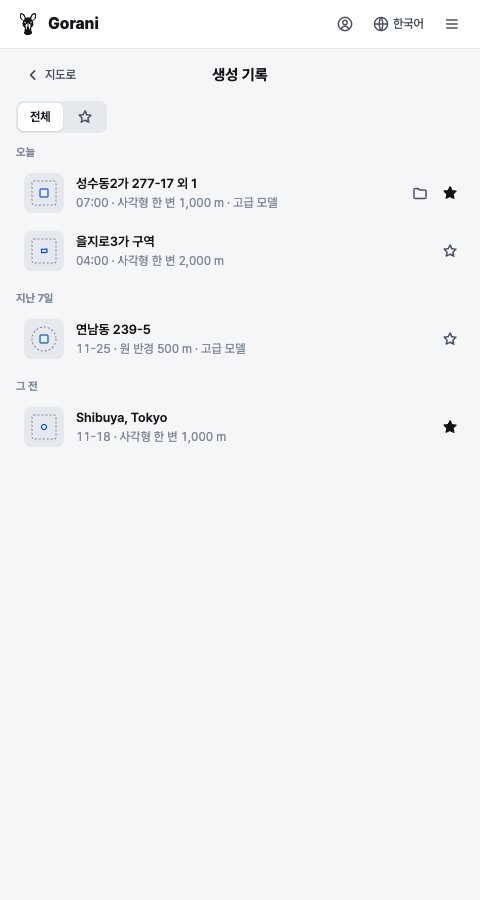
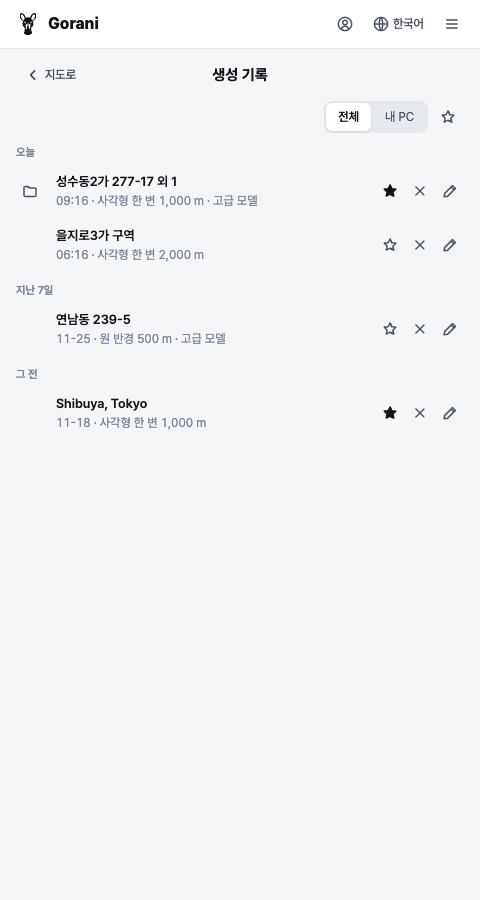
생성 기록: 대상지 썸네일 없애고 왼쪽에 폴더(이 PC 결과만), 오른쪽 별·X·연필, 필터 오른쪽 [전체 | 내 PC] + 따로 켜는 ★ · 지도 트레이는 최근 결과 꼴에 X만

diff --git a/scripts/site_ui.html b/scripts/site_ui.html
@@ -203,21 +203,19 @@ body[data-screen="history"] section[data-screen="history"] { display: block; ove
 .hist-head h2 { margin: 0; font-size: 15px; line-height: 22px; font-weight: 700; }
 .hist-group { margin-top: 12px; }
 .hist-group > .tray-h { display: flex; align-items: center; gap: 8px; margin: 4px 0; font-size: 11px; line-height: 16px; font-weight: 600; color: var(--ink-3); }
-.hist-row { display: grid; grid-template-columns: minmax(0, 1fr) auto; align-items: center; gap: 4px; }
+.hist-row { display: grid; grid-template-columns: 28px minmax(0, 1fr) auto; align-items: center; gap: 4px; }   /* 폴더 · 이름 · 별·X·연필 */
+.hist-row .gap { width: 28px; height: 28px; }   /* 폴더 없는 줄 — 이름이 같은 줄에 서게 */
 .hist-acts { display: flex; align-items: center; gap: 2px; }
-.hist-acts .hov { visibility: hidden; }   /* 이름 바꾸기·지우기 — 마우스를 올렸거나 포커스일 때만(gorani.site/account와 같게) */
-.hist-row:hover .hov, .hist-row:focus-within .hov { visibility: visible; }
-.hist-acts .gap { width: 28px; height: 28px; }   /* 폴더 없는 줄 — 별이 같은 자리에 오게 */
-.hist-open { display: grid; grid-template-columns: 40px minmax(0, 1fr); align-items: center; gap: 12px; width: 100%; min-height: 56px; padding: 6px 8px; border: 0; border-radius: 8px; background: none; text-align: left; color: var(--ink); }
+.hist-filters { display: flex; justify-content: flex-end; align-items: center; gap: 4px; }   /* [전체 | 내 PC] + ★ — 오른쪽 */
+.hist-star-filter[aria-pressed="true"] { color: var(--ink); background: var(--press); }
+.hist-star-filter[aria-pressed="true"] .ico { fill: currentColor; }
+.hist-open { display: block; width: 100%; min-height: 52px; padding: 6px 8px; border: 0; border-radius: 8px; background: none; text-align: left; color: var(--ink); }
 .hist-open:hover:not(:disabled) { background: var(--hover); }
 .hist-open .txt { display: grid; min-width: 0; }
 .hist-open .name, .hist-open .sub { overflow: hidden; text-overflow: ellipsis; white-space: nowrap; }
 .hist-open .name { font-weight: 600; line-height: 20px; }
 .hist-open .sub { color: var(--ink-3); font-size: 12px; line-height: 18px; }
 .hist-name { width: 100%; height: 28px; }
-.hist-thumb { width: 40px; height: 40px; padding: 4px; border-radius: 8px; background: var(--press); fill: none; stroke: var(--ink-3); stroke-width: 1; }
-.hist-thumb .rg { stroke-dasharray: 2 2; }
-.hist-thumb .t { fill: var(--accent-wash); stroke: var(--accent-ink); stroke-width: 1.2; }
 .hist-star[aria-pressed="true"] { color: var(--ink); }
 .hist-star[aria-pressed="true"] .ico { fill: currentColor; }
 #hist_menu { position: fixed; z-index: 1150; min-width: 160px; background: var(--surface); border: 1px solid var(--line); border-radius: 10px; box-shadow: 0 8px 24px rgba(0, 0, 0, .14); padding: 4px; }
@@ -2765,7 +2763,7 @@ Object.assign(ACTIONS, {
 // 누르면 이 PC에 폴더가 있으면 결과 화면, 없으면 같은 대상지·설정으로 지도에 되살린다(restoreResultTarget). 단추 묶음 [전체 | ★], 날짜 묶음, 줄마다 별.
 // 이름 바꾸기·기록에서 빼기는 오른쪽 클릭 메뉴(화면에 단추를 늘리지 않는다). 결과 폴더는 지우지 않는다. 받기는 Python 스레드 — history_poll로 묻는다
 HIST = {
-  items: null, ok: true, star: false, back: "map", poll: null, editing: "", at: 0,   // at = 받은 시각(트레이 위 3개가 30초 안이면 다시 묻지 않는다)
+  items: null, ok: true, star: false, scope: "all", back: "map",   // scope = all | pc(이 PC에 결과 폴더가 있는 기록), star = 즐겨찾기만(범위와 따로) poll: null, editing: "", at: 0,   // at = 받은 시각(트레이 위 3개가 30초 안이면 다시 묻지 않는다)
   can: function () { return !!ACCT && ACCT.member() && (ACCT.st().features || []).indexOf("history_sync") >= 0; },
   open: function () {
     if (!this.can() || state.run === "running") return;
@@ -2796,18 +2794,26 @@ HIST = {
     var items = (this.items || []).slice(0, 3), now = new Date(), today = new Date(now.getFullYear(), now.getMonth(), now.getDate()).getTime(), self = this;
     if (this.items && !items.length) return null;
     var head = '<div class="tray-h">' + ico("clock") + tr("생성 기록") + '<button type="button" class="hist-link" data-act="hist_open">' + tr("전체 기록") + ico("next") + "</button></div>";
-    return head + (this.items === null ? '<div class="hint">' + tr("불러오는 중") + "</div>" : '<div class="mlist">' + items.map(function (it) { return self.rowHtml(it, today); }).join("") + "</div>");
+    return head + (this.items === null ? '<div class="hint">' + tr("불러오는 중") + "</div>" : '<div class="mlist">' + items.map(function (it) { return self.trayRowHtml(it); }).join("") + "</div>");
+  },
+  trayRowHtml: function (it) {   // 지도 트레이 한 줄 — 최근 결과 줄(recentHtml)과 같은 꼴: 방식 아이콘·이름·만든 시각, 오른쪽 X만. 누르면 지도에 다시 고른다
+    var t = new Date(+it.built_at || 0), two = function (n) { return (n < 10 ? "0" : "") + n; }, id = esc(it.id), name = it.label || "–";
+    var when = two(t.getMonth() + 1) + "-" + two(t.getDate()) + " " + two(t.getHours()) + ":" + two(t.getMinutes()), dis = state.run === "running" ? " disabled" : "";
+    return '<div class="recent-row"><button type="button" class="recent" data-act="hist_pick" data-id="' + id + '"' + dis + ">" + ico(MODE_SHORT[it.mode] ? it.mode : "lots") + "<span>" + esc(name) + '</span><span class="sub num">' + esc(when) + "</span></button>" +
+      '<button type="button" class="ib sm" data-act="hist_remove" data-id="' + id + '"' + dis + ' aria-label="' + esc(tr("기록에서 빼기") + ": " + name) + '" title="' + esc(tr("기록에서 빼기")) + '">' + ico("x") + "</button></div>";
   },
   find: function (id) { return (this.items || []).filter(function (it) { return it.id === id; })[0]; },
   render: function () {
     var sec = document.querySelector('section[data-screen="history"]'); if (!sec) return;
-    var self = this, all = this.items || [], items = all.filter(function (it) { return !self.star || it.star; });
+    var self = this, all = this.items || [], items = all.filter(function (it) { return (self.scope !== "pc" || it.dir) && (!self.star || it.star); });
     var html = '<div class="hist-head"><button type="button" class="btn ghost sm" data-act="hist_back">' + ico("back") + tr(this.back === "result" ? "결과로 돌아가기" : "지도로") +
-      '</button><h2 tabindex="-1">' + tr("생성 기록") + '</h2><span></span></div><div class="seg" role="group" aria-label="' + tr("생성 기록") + '">' +
-      segBtn("hist_filter", ' data-v="all"', !this.star, tr("전체")) + segBtn("hist_filter", ' data-v="star" aria-label="' + tr("즐겨찾기") + '" title="' + tr("즐겨찾기") + '"', this.star, ico("star")) + "</div>";
+      '</button><h2 tabindex="-1">' + tr("생성 기록") + '</h2><span></span></div><div class="hist-filters"><div class="seg" role="group" aria-label="' + tr("생성 기록") + '">' +
+      segBtn("hist_scope", ' data-v="all"', this.scope !== "pc", tr("전체")) + segBtn("hist_scope", ' data-v="pc" title="' + tr("이 PC에 결과 폴더가 있는 기록") + '"', this.scope === "pc", tr("내 PC")) + "</div>" +
+      '<button type="button" class="ib hist-star-filter" data-act="hist_star_filter" aria-pressed="' + this.star + '" aria-label="' + tr("즐겨찾기만") + '" title="' + tr("즐겨찾기만") + '">' + ico("star") + "</button></div>";
     if (!this.ok) html += '<p class="hint">' + tr("생성 기록을 받지 못했습니다") + "</p>";
     if (this.items === null) html += '<p class="hint">' + tr("불러오는 중") + "</p>";
-    else if (!items.length) html += this.ok ? '<p class="hint">' + tr("아직 생성 기록이 없습니다") + "</p>" : "";
+    else if (!items.length) html += !this.ok ? "" : !all.length ? '<p class="hint">' + tr("아직 생성 기록이 없습니다") + "</p>"
+      : '<p class="hint">' + tr(this.star ? "즐겨찾기한 기록이 없습니다" : "이 PC에서 만든 기록이 없습니다") + "</p>";
     else {
       var now = new Date(), today = new Date(now.getFullYear(), now.getMonth(), now.getDate()).getTime(), week = today - 6 * 864e5;
       var groups = [[tr("오늘"), []], [tr("지난 7일"), []], [tr("그 전"), []]];
@@ -2824,28 +2830,15 @@ HIST = {
     var when = t.getTime() >= today ? two(t.getHours()) + ":" + two(t.getMinutes()) : two(t.getMonth() + 1) + "-" + two(t.getDate());
     var sub = [when, +it.radius > 0 ? rangeLabel({ shape: it.shape, radius: +it.radius }) : "", it.detail === "advanced" ? tr("고급 모델") : ""].filter(Boolean).join(" · ");
     var id = esc(it.id), name = it.label || "–", lock = state.run === "running" ? " disabled" : "";
-    var star = '<button type="button" class="ib sm hist-star" data-act="hist_star" data-id="' + id + '" aria-pressed="' + !!it.star + '" aria-label="' + esc(tr("즐겨찾기") + ": " + name) + '">' + ico("star") + "</button>";
-    var btn = function (act, icon, label, cls) { return '<button type="button" class="ib sm ' + (cls || "") + '" data-act="' + act + '" data-id="' + id + '" aria-label="' + esc(label + ": " + name) + '" title="' + esc(label) + '"' + lock + ">" + ico(icon) + "</button>"; };
-    // 오른쪽 단추(gorani.site/account와 같게 — 연필은 마우스 올림, 별은 늘): 연필·휴지통(마우스 올림) · 폴더(이 PC에 결과가 있을 때만 — 누르면 결과 화면) · 별
-    var acts = '<div class="hist-acts">' + btn("hist_rename", "pen", tr("이름 바꾸기"), "hov") + btn("hist_remove", "trash", tr("기록에서 빼기"), "hov") +
-      (it.dir ? btn("hist_result", "folder", tr("결과 보기")) : '<span class="gap"></span>') + star + "</div>";
+    var btn = function (act, icon, label, extra) { return '<button type="button" class="ib sm" data-act="' + act + '" data-id="' + id + '" aria-label="' + esc(label + ": " + name) + '" title="' + esc(label) + '"' + lock + (extra || "") + ">" + ico(icon) + "</button>"; };
+    // 왼쪽 = 폴더(이 PC에 결과가 있는 기록만 — 누르면 결과 화면), 오른쪽 = 별 · X(기록에서 빼기) · 연필(이름 바꾸기) — 2026-11-27 사용자
+    var folder = it.dir ? btn("hist_result", "folder", tr("결과 보기")) : '<span class="gap"></span>';
+    var acts = '<div class="hist-acts">' + btn("hist_star", "star", tr("즐겨찾기"), ' aria-pressed="' + !!it.star + '"').replace('class="ib sm"', 'class="ib sm hist-star"') +
+      btn("hist_remove", "x", tr("기록에서 빼기")) + btn("hist_rename", "pen", tr("이름 바꾸기")) + "</div>";
     if (this.editing === it.id)
-      return '<div class="hist-row" data-id="' + id + '"><div class="hist-open">' + this.thumb(it) + '<input type="text" class="hist-name" id="hist_edit" data-id="' + id + '" value="' + esc(name) + '" maxlength="80" aria-label="' + tr("이름 바꾸기") + '"></div>' + star + "</div>";
-    return '<div class="hist-row" data-id="' + id + '"><button type="button" class="hist-open" data-act="hist_pick" data-id="' + id + '"' + lock + ' title="' + esc(tr("지도에서 같은 설정으로 다시 고릅니다")) + '">' + this.thumb(it) +
+      return '<div class="hist-row" data-id="' + id + '">' + folder + '<div class="hist-open"><input type="text" class="hist-name" id="hist_edit" data-id="' + id + '" value="' + esc(name) + '" maxlength="80" aria-label="' + tr("이름 바꾸기") + '"></div>' + acts + "</div>";
+    return '<div class="hist-row" data-id="' + id + '">' + folder + '<button type="button" class="hist-open" data-act="hist_pick" data-id="' + id + '"' + lock + ' title="' + esc(tr("지도에서 같은 설정으로 다시 고릅니다")) + '">' +
       '<span class="txt"><span class="name">' + esc(name) + '</span><span class="sub num">' + esc(sub) + "</span></span></button>" + acts + "</div>";
-  },
-  thumb: function (it) {   // 대상지 윤곽 + 범위(점선) — 경위도로 그리는 작은 그림, 3D 캡처 없음. 구역은 링, 필지·위치는 가운데 표시
-    var t = it.target || {}, c = it.center, ring = t.ring || [], r = +it.radius || 250, half = 12;
-    var range = it.shape === "rect" ? '<rect x="' + (16 - half) + '" y="' + (16 - half) + '" width="' + 2 * half + '" height="' + 2 * half + '" rx="1.5"/>' : '<circle cx="16" cy="16" r="' + half + '"/>';
-    var shape = it.mode === "point" ? '<circle class="t" cx="16" cy="16" r="2.5"/>' : '<rect class="t" x="12" y="12" width="8" height="8" rx="1"/>';
-    if (ring.length >= 3 && c && c.length === 2) {
-      var kx = Math.cos(c[1] * Math.PI / 180) * 111320, ky = 110540, s = half / r;
-      shape = '<polygon class="t" points="' + ring.map(function (p) {
-        var x = 16 + (p[0] - c[0]) * kx * s, y = 16 - (p[1] - c[1]) * ky * s;
-        return Math.max(1, Math.min(31, x)).toFixed(1) + "," + Math.max(1, Math.min(31, y)).toFixed(1);
-      }).join(" ") + '"/>';
-    }
-    return '<svg class="hist-thumb" viewBox="0 0 32 32" aria-hidden="true"><g class="rg">' + range + "</g>" + shape + "</svg>";
   },
   pick: function (id) {
     var it = this.find(id); if (!it || state.run === "running" || state.job2d === "running") return;
@@ -2895,7 +2888,8 @@ handlers.history = function (m) { HIST.onData(m); };
 Object.assign(ACTIONS, {
   hist_open: function () { var from = state.screen; HIST.open(); track("history_open", from); },
   hist_back: function () { HIST.leave(); },
-  hist_filter: function (b) { HIST.star = b.dataset.v === "star"; HIST.render(); },
+  hist_scope: function (b) { HIST.scope = b.dataset.v === "pc" ? "pc" : "all"; HIST.render(); },
+  hist_star_filter: function () { HIST.star = !HIST.star; HIST.render(); },
   hist_pick: function (b) { HIST.pick(b.dataset.id); },
   hist_star: function (b) { HIST.toggleStar(b.dataset.id); },
   hist_rename: function (b) { HIST.rename(b.dataset.id); },

diff --git a/docs/account_plan.md b/docs/account_plan.md
@@ -220,10 +220,10 @@
 
 **패널 '생성 기록' 화면**(회원만 — 지도·결과 다음 세 번째 화면)
 - 들어가는 곳: 머리줄 계정 기호 → '생성 기록', 지도 트레이 '생성 기록' 머리 오른쪽 `전체 기록 ›`.
-- 위: 단추 묶음 `[전체 | ★]`(이름 찾기 없음 — 2026-11-15 사용자). 목록은 날짜 묶음(오늘·지난 7일·그 전).
-- 한 줄: 썸네일(대상지 윤곽 + 범위 — 패널이 경위도로 그리는 작은 SVG, 3D 캡처 없음), 이름, `시각 · 범위 · 고급 모델`(기본이면 없음), 오른쪽에 연필·휴지통(마우스를 올렸을 때만 — gorani.site/account와 같은 연필), 폴더(이 PC에 결과 폴더가 있는 기록만 — 누르면 결과 화면), 즐겨찾기 ☆/★(늘, 누르면 바로 바뀐다)(2026-11-27 사용자). PC 이름·배지는 쓰지 않는다.
+- 위 오른쪽: 범위 `[전체 | 내 PC]`(내 PC = 이 PC에 결과 폴더가 있는 기록) + 따로 켜고 끄는 ★(두 범위 어디서나 즐겨찾기만 — 2026-11-27 사용자). 이름 찾기 없음(2026-11-15). 목록은 날짜 묶음(오늘·지난 7일·그 전).
+- 한 줄: 왼쪽 폴더(이 PC에 결과 폴더가 있는 기록만 — 누르면 결과 화면, 대상지 썸네일은 없앴다), 이름, `시각 · 범위 · 고급 모델`(기본이면 없음), 오른쪽 ☆/★ · X(기록에서 빼기, 확인 창) · 연필(이름 바꾸기, gorani.site/account와 같은 모양)(2026-11-27 사용자). PC 이름·배지는 쓰지 않는다. 지도 트레이 위 3개는 최근 결과 줄 꼴에 X만.
 - 줄을 누르면: 늘 같은 대상지·설정으로 지도에 되살린다(`restoreResultTarget`과 같은 길 — 사용자는 [3D 모델 만들기]만 누르면 된다. 지금 데이터 판으로 만든다). 이 PC의 결과 화면은 폴더 아이콘으로(`entry_id`로 찾는다) — 2026-11-27 사용자: 같은 줄이 어떤 건 결과, 어떤 건 지도로 가 예측이 안 됐다.
-- 이름 바꾸기·기록에서 빼기(계정 기록 지우기)는 줄의 연필·휴지통(마우스 올림)과 오른쪽 클릭 메뉴. 지우기는 확인 창(되돌릴 수 없다). 결과 폴더는 지우지 않는다(이전 결과는 지우지 않는다는 원칙).
+- 이름 바꾸기·기록에서 빼기(계정 기록 지우기)는 줄의 연필·X와 오른쪽 클릭 메뉴. 지우기는 확인 창(되돌릴 수 없다). 결과 폴더는 지우지 않는다(이전 결과는 지우지 않는다는 원칙).
 
 **동기화**
 - 회원이 3D 생성을 끝내면(성공만) 데몬 스레드로 RTDB에 PUT. 실패·오프라인이면 `account.json`의 `pending_history`에 두었다가 다음 확인 때 보낸다. 이름·고정(PATCH)·지우기(DELETE)도 같은 줄.
